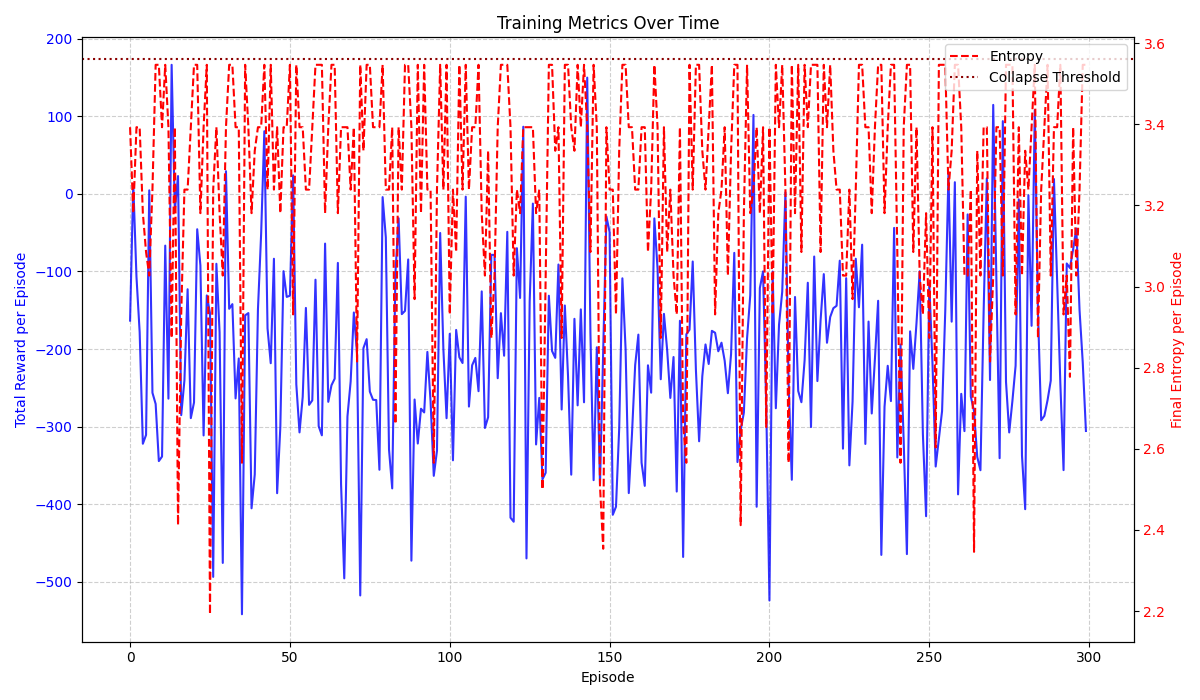
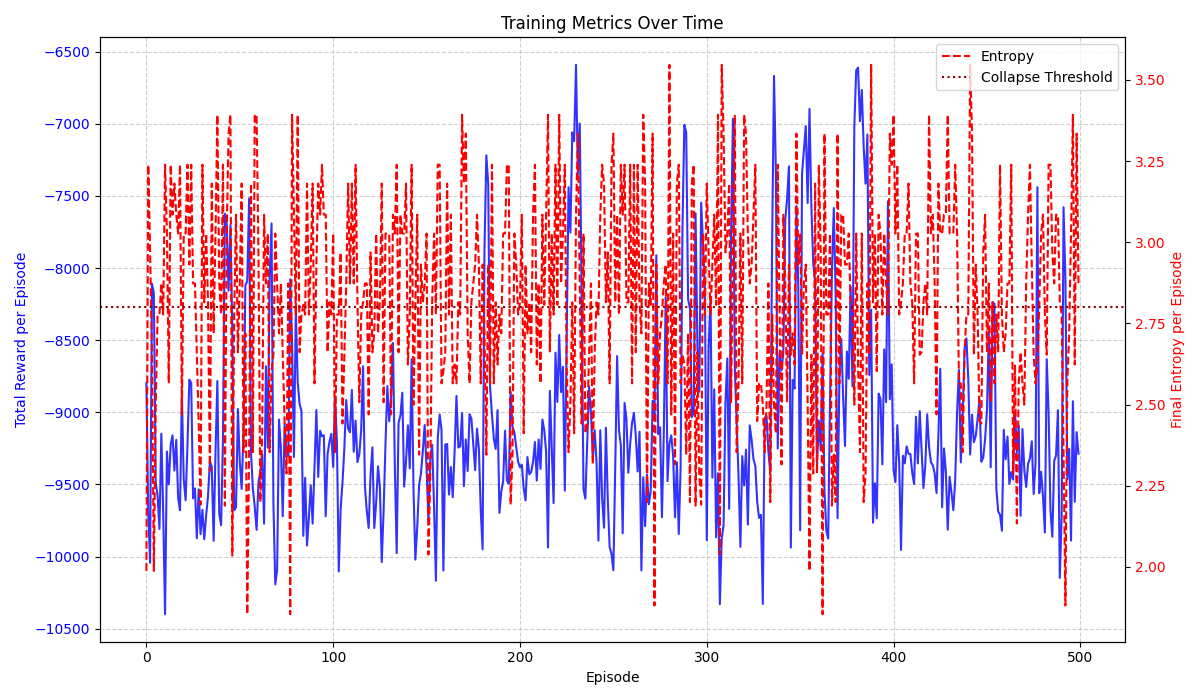
Longer run and tracking KDE Heat map

diff --git a/Version_1/FLOWRRA.py b/Version_1/FLOWRRA.py
@@ -3,6 +3,15 @@ import random
 import math
 from sklearn.neighbors import KernelDensity
 from scipy.stats import entropy as ShannonEntropy
+import logging
+
+
+# configure logging once -- Necessary
+logging.basicConfig(
+    filename="flowrra_collapses.log",
+    level=logging.INFO,
+    format="%(asctime)s - %(levelname)s - %(message)s"
+)
 
 # --- Moved NodePosition and NodeSensor outside the Flowrra class ---
 class NodePosition:
@@ -422,7 +431,8 @@ class Flowrra:
     def record_collapse_state(self, state_data):
         """Records the state that led to a wave function collapse."""
         self.last_collapse_state = tuple(state_data)
-        print(f"Recorded a collapse state. Will now penalize returning to it.")
+        logging.warning(f"Collapse recorded at state: {self.last_collapse_state}")
+        print(f"Will now penalize returning to {self.last_collapse_state}.")
 
     def reinitialize_loop(self, new_loop_data):
         """Re-initializes Environment_A with a new coherent loop."""

diff --git a/Version_1/main_rl.py b/Version_1/main_rl.py
@@ -62,7 +62,7 @@ flowrra = Flowrra(
     node_position_config=NodePositionConfig(position=(0,0), eye_angles=0, rotation_speed=2, move_speed=1),
     node_sensor_config=NodeSensorConfig(max_range=10, noise_std=0.5, false_negative_prob=0.05, false_positive_prob=0.05),
     loop_data_config=initial_loop_data,
-    coherence_score_config=CoherenceScoreConfig(entropy_threshold=3.47),
+    coherence_score_config=CoherenceScoreConfig(entropy_threshold=2.8),
     alpha=0.09,
     gamma=0.85
 )
@@ -100,10 +100,10 @@ for episode in range(warm_up_episodes):
 print(f"Warm-up complete after {warm_up_episodes} episodes.")
 
 # --- 4. Run the Reinforcement Learning Loop ---
-num_episodes = 250
-steps_per_episode = 500
+num_episodes = 500
+steps_per_episode = 1000
 eps_min=0.05
-eps_peak=0.6
+eps_peak=0.8
 epsilon = eps_min
 
 rewards_per_episode = []
